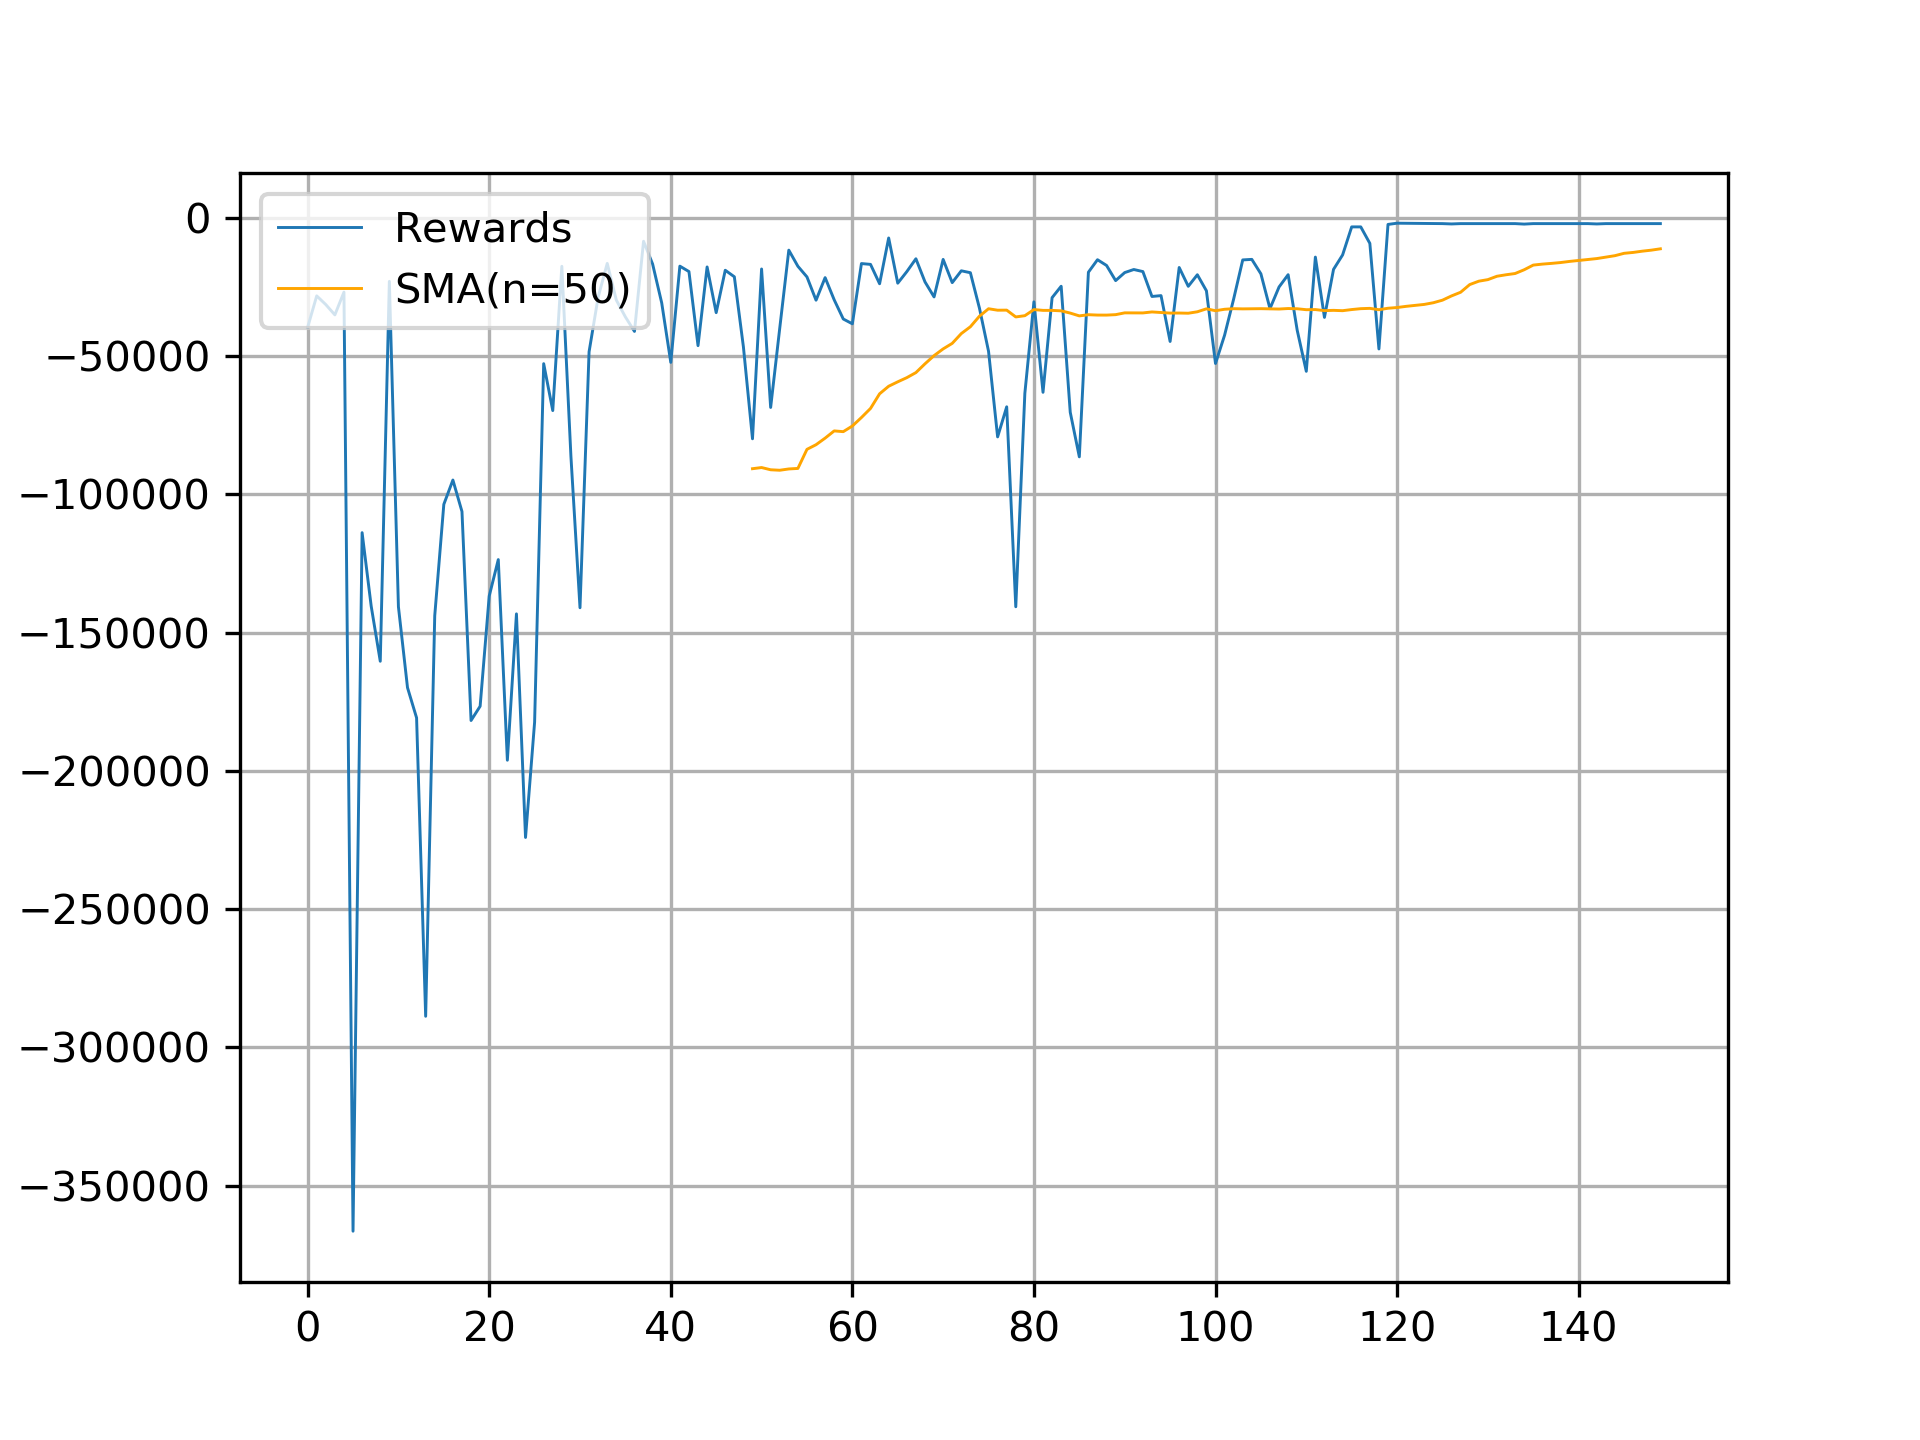
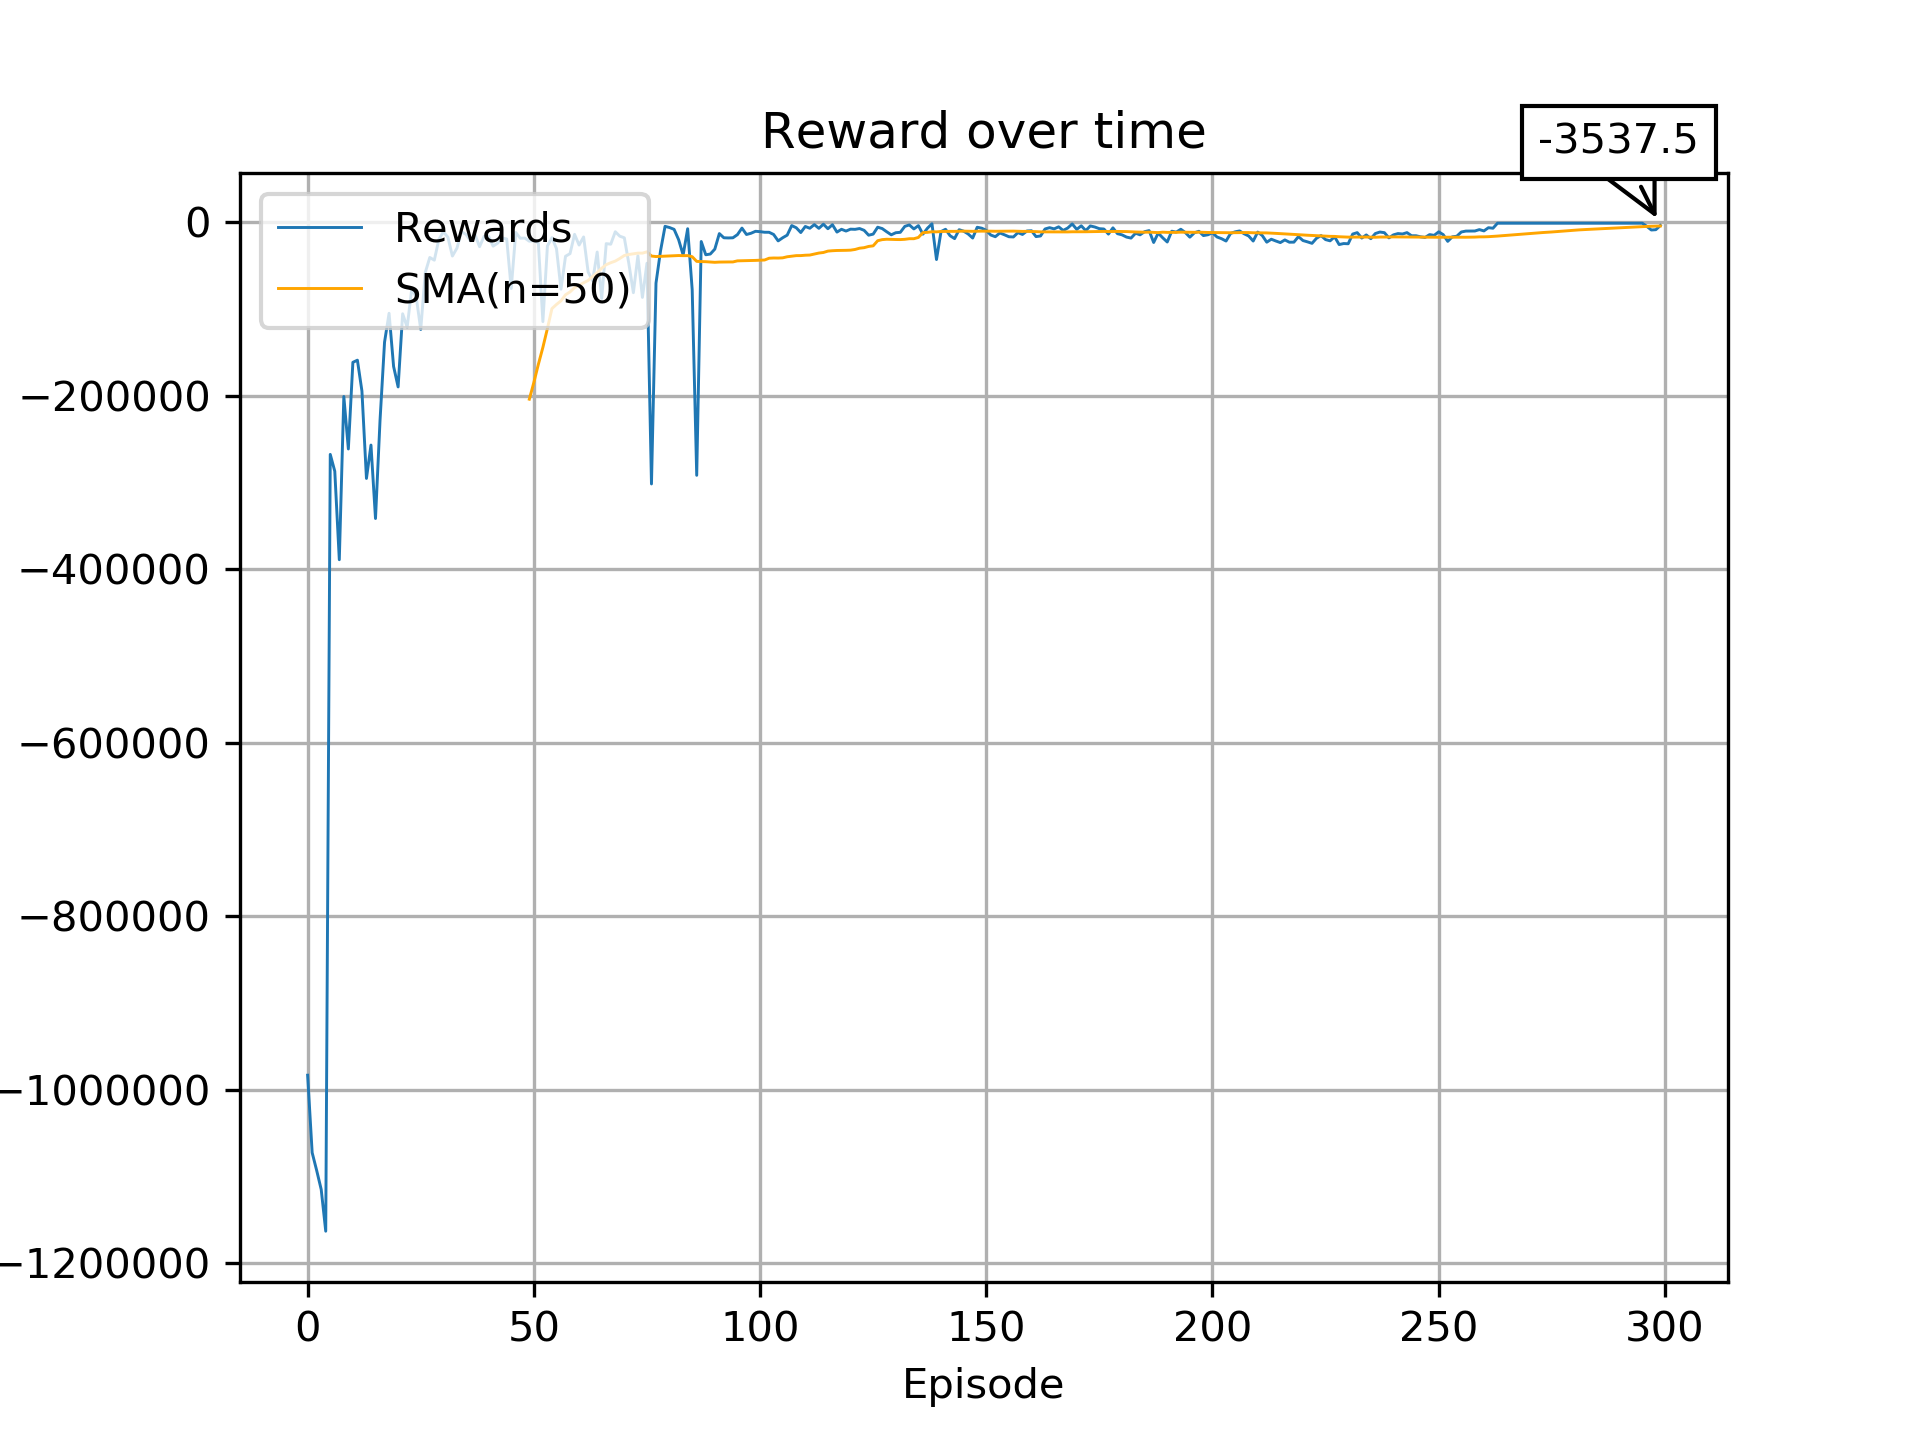
Tested policy accuracy for stochastic demands.

diff --git a/VMIwithDRL/src/test_script.py b/VMIwithDRL/src/test_script.py
@@ -3,7 +3,8 @@ Created on 17/11/2019
 @author: juan0
 '''
 from agent_model.training_agent_torch3 import TrainingAgent
-from implementation.VMImodel import VMI
+#from implementation.VMImodel import VMI
+from implementation.VMImodelVariable import VMI
 from matplotlib.offsetbox import (TextArea, DrawingArea, OffsetImage, AnnotationBbox)
 import pandas as pd
 import matplotlib.pyplot as plt
@@ -41,6 +42,7 @@ def send_mail():
 if __name__ =='__main__':
     initial_state = [10, 10, 10, 10, 10, 1, 0, 0, 0, 0]
     # print(tensorflow.test.is_gpu_available())
+    #magic numbers: runs 150 , eppercentage:0.25
     train_runs=150
     model = VMI(4, 100, 5, initial_state, 5, 100)
     agent = TrainingAgent(model=model, runs=train_runs, steps_per_run=365, batch_size=32, memory=1825, use_gpu=True,
@@ -110,11 +112,11 @@ if __name__ =='__main__':
     ax.plot(log_df.index, log_df.stockouts, label='Stockouts',linewidth=line_tc)
     ax.plot(log_df.index, log_df.expirees, label='Expirees', color='orange',linewidth=line_tc)
     ax.plot(log_df.index, log_df.dc_expirees, label='DC Expirees', color='green',linewidth=line_tc)
-    ax.ylabel("Accumulated over episode")
-    ax.xlabel("Episode")
-    ax.title("Politic over time")
-    ax.grid(True)
-    ax.legend(loc='upper left')
+    plt.ylabel("Accumulated over episode")
+    plt.xlabel("Episode")
+    plt.title("Politic over time")
+    plt.grid(True)
+    plt.legend(loc='upper left')
     plt.savefig('output/politic.png', dpi=300)
     plt.show()
 
@@ -127,7 +129,7 @@ if __name__ =='__main__':
     fig, ax=plt.subplots()
     ax.plot(df.index, df.data, label='Rewards',linewidth=line_tc)
     ax.plot(df.index, rolling_mean, label='SMA(n=50)', color='orange',linewidth=line_tc)
-    xy = (len(rewards) - 1, rolling_mean[len(rolling_mean) - 1])
+    xy = (len(rewards) - 1, rewards[-1])
     offsetbox = TextArea(xy[1], minimumdescent=False)
     ab = AnnotationBbox(offsetbox, xy,
                         xybox=(-10, 20),
@@ -135,11 +137,11 @@ if __name__ =='__main__':
                         boxcoords="offset points",
                         arrowprops=dict(arrowstyle="->"))
     ax.add_artist(ab)
-    ax.legend(loc='upper left')
-    ax.ylabel("Reward (Accumulated)")
-    ax.xlabel("Episode")
-    ax.title("Reward over time")
-    ax.grid(True)
+    plt.legend(loc='upper left')
+    plt.ylabel("Reward (Accumulated)")
+    plt.xlabel("Episode")
+    plt.title("Reward over time")
+    plt.grid(True)
     plt.savefig('output/reward.png', dpi=300)
     plt.show()
 

diff --git a/VMIwithDRL/src/implementation/VMImodelVariable.py b/VMIwithDRL/src/implementation/VMImodelVariable.py
@@ -30,13 +30,13 @@ class VMI(Model):
     def model_logic(self, state, action, options=None):
         # demands = [5, 10, 15, 20]
         # print(state[:self.shelf_life])
-        demand_data = self.demands_and_donors.iloc[self.year_day]
+        #demand_data =self.get_demand(state[5])# self.demands_and_donors.iloc[self.year_day]
         self.year_day += 1
 
         # donors = demand_data["donors"]
         donors = 100
         # self.get_donors(state[5])
-        demands = [demand_data["d1"], demand_data["d2"], demand_data["d3"], demand_data["d4"]]
+        demands = self.get_demand(state[5])
         # self.get_demand(state[5])
         # donors = self.get_donors()
         # A = min(action,sum(state[:self.shelf_life]))
